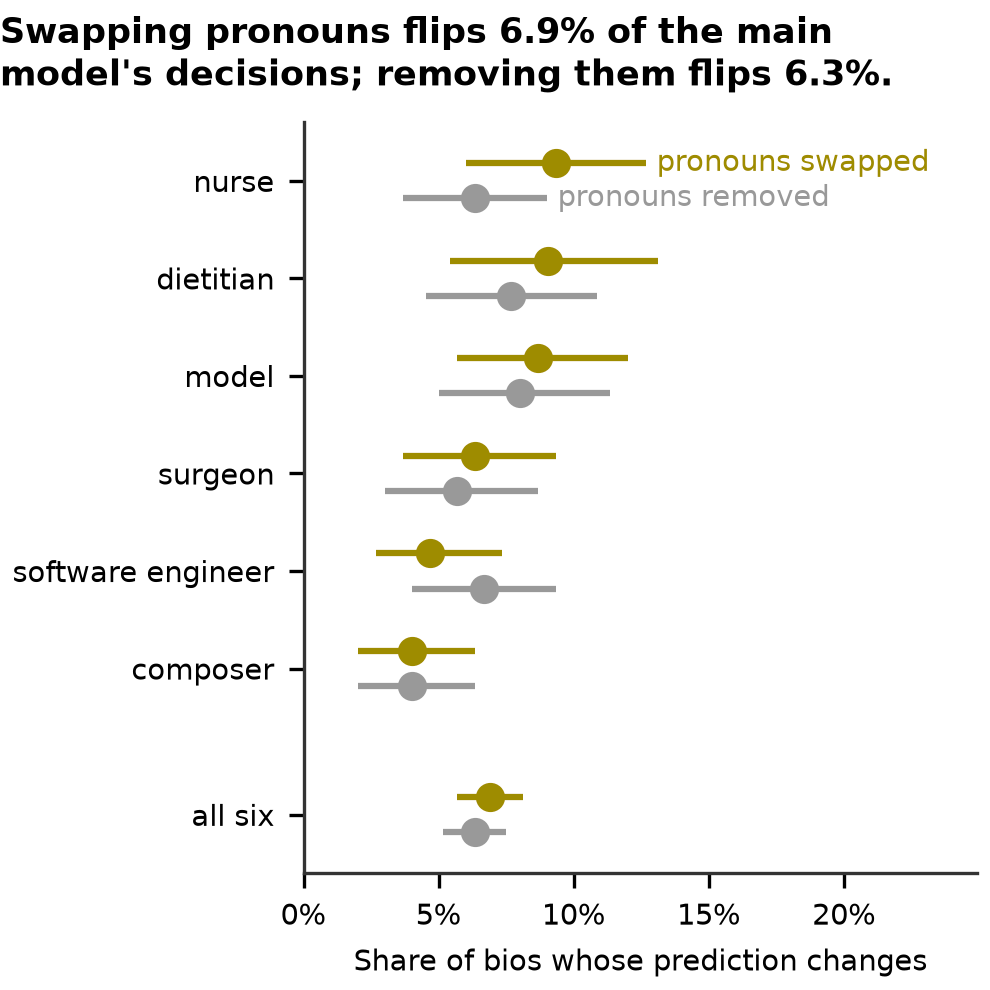
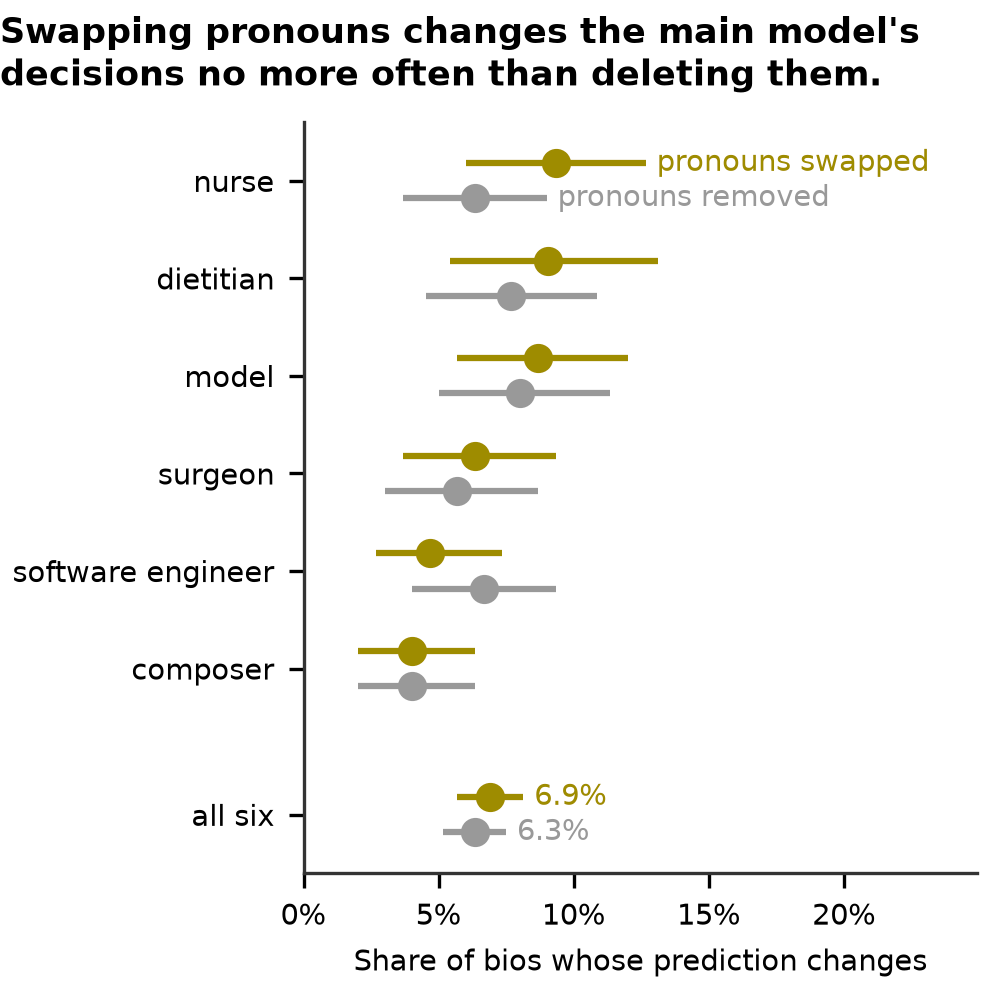
feat: the F4 title states the finding and the pooled rates are labelled; figure files, deuteranopia check and README line regenerated

Changed region(s): [[0.0, 0.0, 0.9394, 0.0909], [0.5152, 0.7879, 0.6061, 0.8485]]

diff --git a/scripts/figure_f4.py b/scripts/figure_f4.py
@@ -30,14 +30,20 @@ def _main_model(table: pd.DataFrame) -> pd.DataFrame:
 
 
 def title(table: pd.DataFrame) -> str:
-    """The finding: the pooled flip rates of the swap and of the removal control."""
+    """The finding: how the pooled flip rate of the swap compares with the removal control.
+
+    "More" or "less" only when the 95% intervals do not overlap; otherwise "no more".
+    """
     by_condition = _main_model(table)
-    swap = by_condition["swap"].loc[POOLED, "flip_rate"]
-    removal = by_condition["removal"].loc[POOLED, "flip_rate"]
-    return (
-        f"Swapping pronouns flips {swap:.1%} of the main model's decisions; "
-        f"removing them flips {removal:.1%}."
-    )
+    swap = by_condition["swap"].loc[POOLED]
+    removal = by_condition["removal"].loc[POOLED]
+    if swap["flip_rate_ci_low"] > removal["flip_rate_ci_high"]:
+        comparison = "more often than"
+    elif swap["flip_rate_ci_high"] < removal["flip_rate_ci_low"]:
+        comparison = "less often than"
+    else:
+        comparison = "no more often than"
+    return f"Swapping pronouns changes the main model's decisions {comparison} deleting them."
 
 
 def build(table: pd.DataFrame):
@@ -62,6 +68,14 @@ def build(table: pd.DataFrame):
             values["flip_rate_ci_high"].iloc[0] + 0.004,
             ys[0],
             label,
+            color=colour,
+            va="center",
+            ha="left",
+        )
+        ax.text(
+            values["flip_rate_ci_high"].iloc[-1] + 0.004,
+            ys[-1],
+            f"{values['flip_rate'].iloc[-1]:.1%}",
             color=colour,
             va="center",
             ha="left",

diff --git a/README.md b/README.md
@@ -99,9 +99,9 @@ Comparing the two models: in every occupation the top ten words of both include 
 
 ### F4: swapping pronouns against deleting them
 
-![Swapping pronouns flips 6.9% of the main model's decisions; removing them flips 6.3%.](results/figures/f4_flip_rates.png)
+![Swapping pronouns changes the main model's decisions no more often than deleting them.](results/figures/f4_flip_rates.png)
 
-On the 1,721 showcase bios, `counterfactual.swap_gender` swaps he and she, him and her, his and hers and the titles Mr, Ms and Mrs, and each screener scores the original and the swapped bio. The removal control deletes the same words (`data.scrub`) instead. F4 shows the main model: per showcase occupation and pooled, the share of bios whose predicted occupation changes (the flip rate), swap in the highlight colour and removal in grey, with 95% bootstrap intervals over bios (1,000 resamples). Occupations are sorted by the swap flip rate. Under a deuteranopia simulation the two colours stay apart ([check](docs/figure_checks/f4_deuteranopia.png)). Design and alternatives are in [ADR 0005](docs/decisions/0005-counterfactual-gender-swap.md); every number below is in `results/counterfactual_gender.csv` and `results/counterfactual_gender.json`.
+On the 1,721 showcase bios, `counterfactual.swap_gender` swaps he and she, him and her, his and hers and the titles Mr, Ms and Mrs, and each screener scores the original and the swapped bio. The removal control deletes the same words (`data.scrub`) instead. F4 shows the main model: per showcase occupation and pooled, the share of bios whose predicted occupation changes (the flip rate), swap in the highlight colour and removal in grey, with 95% bootstrap intervals over bios (1,000 resamples). Occupations are sorted by the swap flip rate, and the pooled row is labelled with its two rates (6.9% and 6.3%). The title says "no more often" because the pooled intervals overlap; the script words it "more often" or "less often" when they do not. Under a deuteranopia simulation the two colours stay apart ([check](docs/figure_checks/f4_deuteranopia.png)). Design and alternatives are in [ADR 0005](docs/decisions/0005-counterfactual-gender-swap.md); every number below is in `results/counterfactual_gender.csv` and `results/counterfactual_gender.json`.
 
 A swap changes several tokens at once, so a flip does not prove that a model uses gender. The removal control and the residual-cue flags address that:
 
